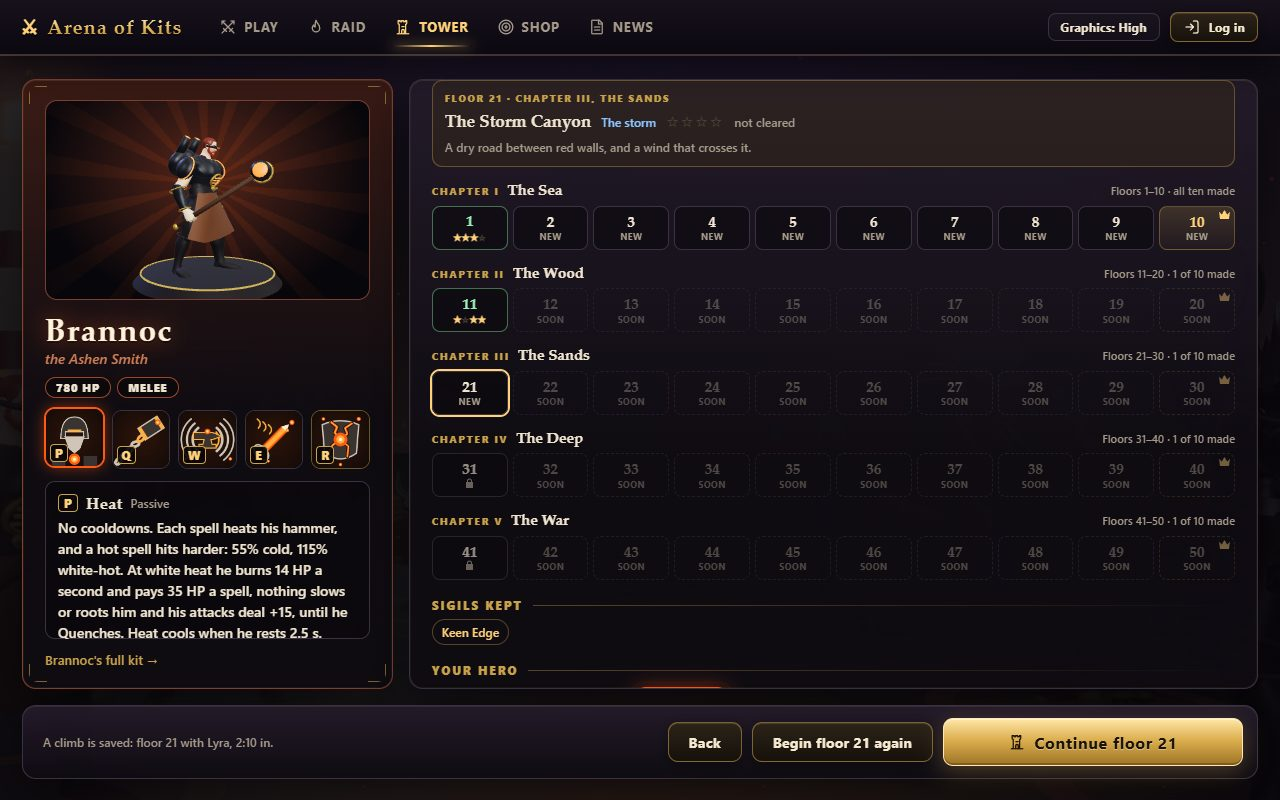
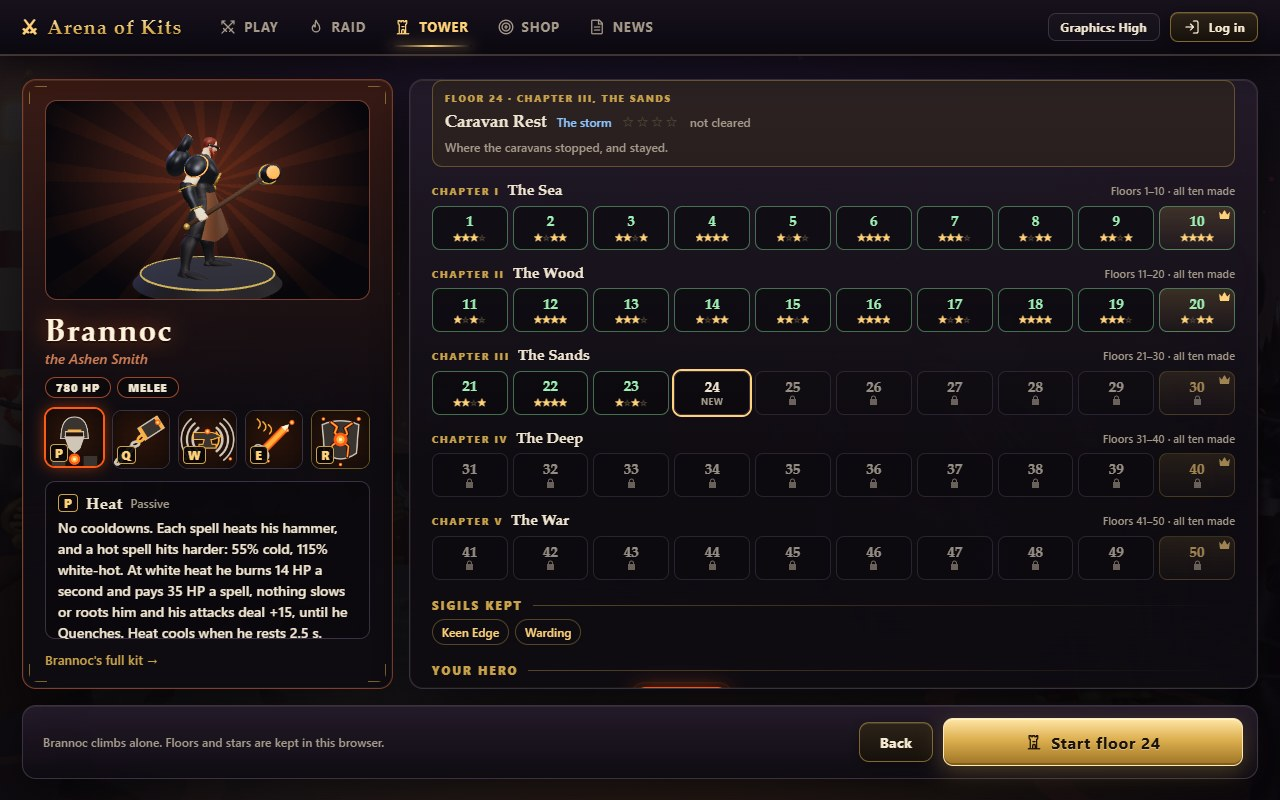
Climb to 50: the News picture taken again (all fifty floors made, a climb at floor 24); the Climb screen no longer says floors marked soon are still being made, and warns of the packs' red zones

diff --git a/src/tower/world/menu.ts b/src/tower/world/menu.ts
@@ -131,7 +131,7 @@ export function climbPanel(d: ClimbDeps): { section: HTMLElement; bar: HTMLEleme
   const section = el('section', { class: 'card hs-roster', 'data-keep-scroll': 'climb' },
     d.tabs,
     el('div', { class: 'hs-roster-head' }, el('h2', {}, 'Climb'), el('span', { class: 'muted small' }, 'Fifty floors in five chapters, each a place to walk through')),
-    el('p', { class: 'muted' }, 'Each floor is a whole place: people with work for you, packs to fell, secrets to find, a rule of the place (the tide, the dark), a ruler behind a door and a gate up. Every tenth floor is a crown: a great boss, alone. Clear a floor for up to four stars and keep one boon as a sigil for every later climb. A fall costs a life; three lives a floor. Your floor is saved when you leave. Floors marked soon are still being made.'),
+    el('p', { class: 'muted' }, 'Each floor is a whole place: people with work for you, packs to fell, secrets to find, a rule of the place (the tide, the dark), a ruler behind a door and a gate up. Every tenth floor is a crown: a great boss, alone. Clear a floor for up to four stars and keep one boon as a sigil for every later climb. A fall costs a life; three lives a floor. Your floor is saved when you leave. Packs fight together: watch for the red on the ground.'),
     pick,
     ...chapters,
     el('h3', { class: 'gap' }, 'Sigils kept'),
